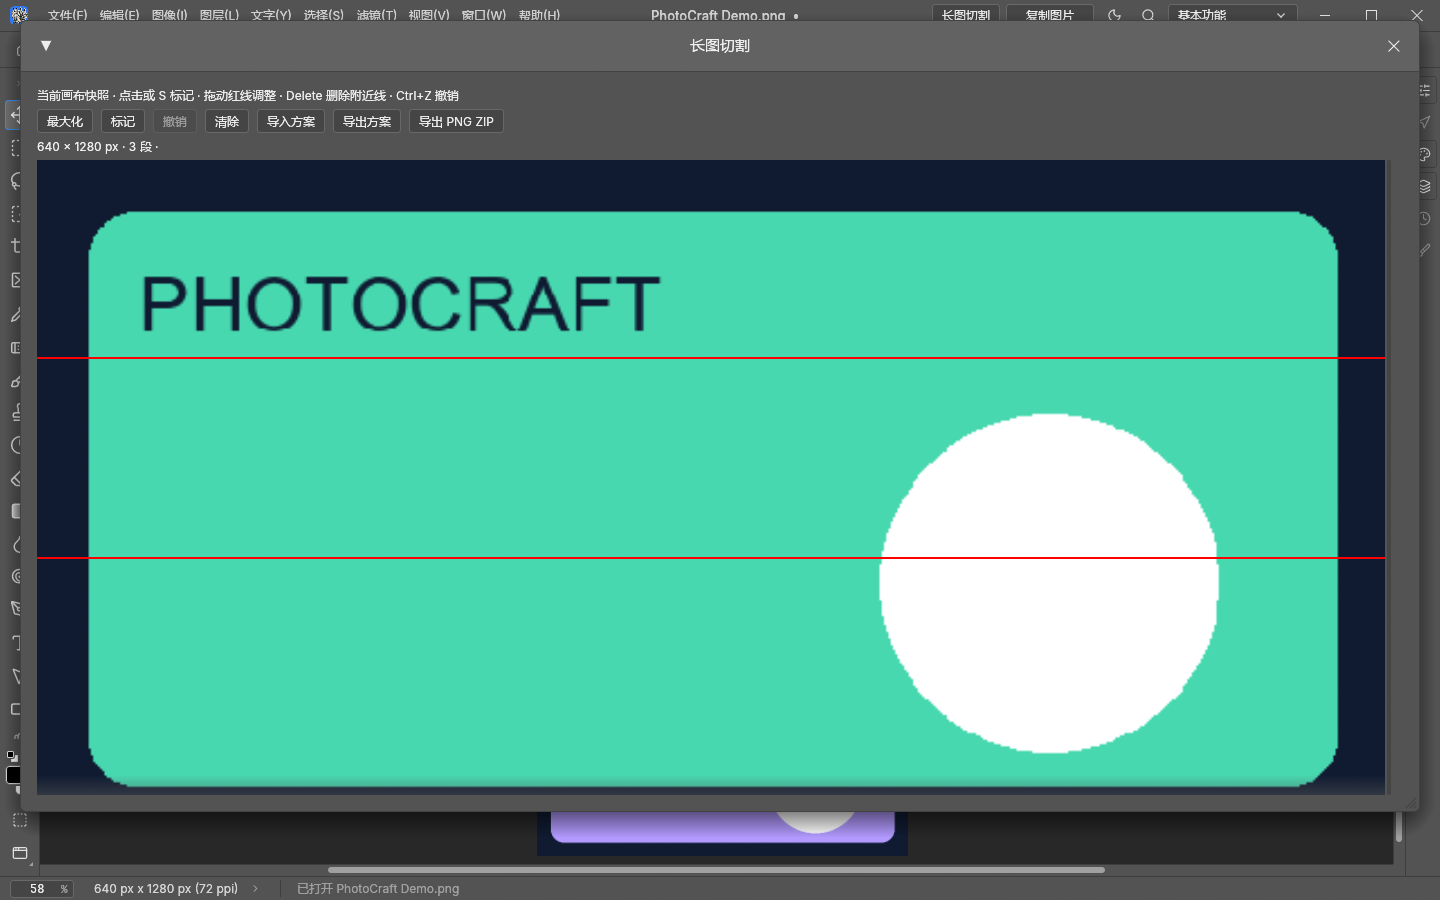
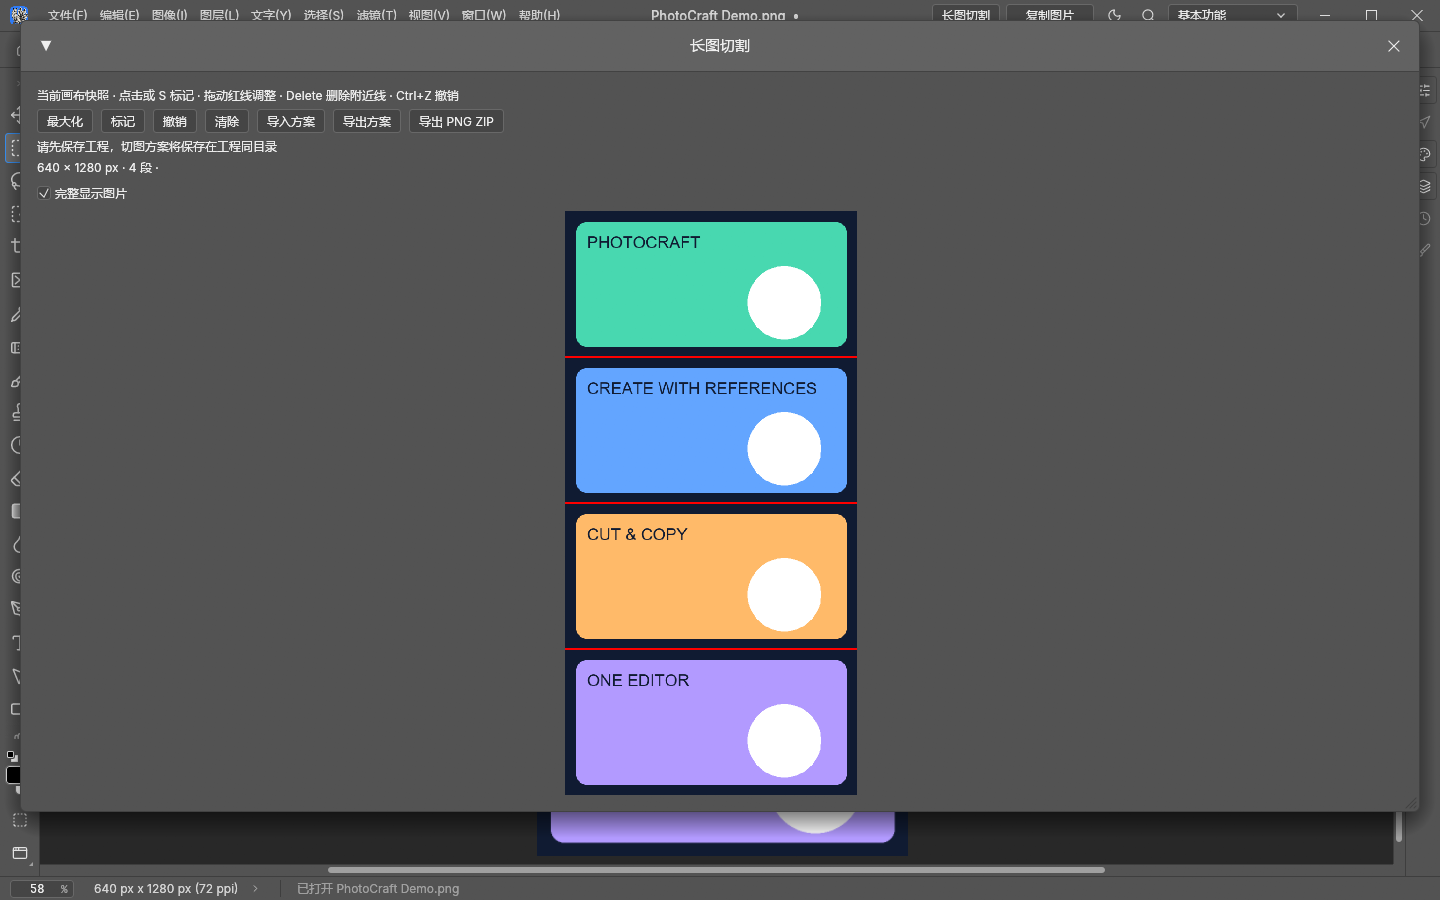
docs: separate language pages and show full long-image cutting

diff --git a/build_portable.py b/build_portable.py
@@ -30,7 +30,7 @@ build_info['executable'] = 'photocraft.exe'
 assert build_info['exe_sha256'] == hashlib.sha256((output / 'native/photocraft.exe').read_bytes()).hexdigest()
 assert build_info['photocraft_version'] == '0.20.1'
 (output / 'native/BUILD_INFO.json').write_text(json.dumps(build_info, indent=2), encoding='utf-8')
-for name in ('portable_launcher.py', 'README.md', 'THIRD_PARTY.md', 'VALIDATION.md', 'RELEASE_NOTES.md'):
+for name in ('portable_launcher.py', 'README.md', 'README.en.md', 'THIRD_PARTY.md', 'VALIDATION.md', 'RELEASE_NOTES.md'):
     shutil.copy2(ROOT / name, output / name)
 command = '@echo off\r\nchcp 65001 >nul\r\ncd /d "%~dp0"\r\n"%~dp0python\\python.exe" "%~dp0portable_launcher.py" %*\r\n'
 (output / 'start.cmd').write_bytes(command.encode('utf-8'))

diff --git a/build_release.py b/build_release.py
@@ -5,7 +5,7 @@ import zipfile
 root = Path(__file__).resolve().parent
 destination = root / 'dist/photocraft-codex-ai-0.4.0.zip'
 destination.parent.mkdir(exist_ok=True)
-files = [root / name for name in ('README.md', 'VALIDATION.md', 'THIRD_PARTY.md', 'RELEASE_NOTES.md',
+files = [root / name for name in ('README.md', 'README.en.md', 'VALIDATION.md', 'THIRD_PARTY.md', 'RELEASE_NOTES.md',
                                  'requirements.txt', 'start.cmd', 'start-native.cmd', 'start-panel.cmd',
                                  'native-build.toml', 'build_native.py', 'export_native_patch.py', 'build_release.py')]
 for folder in ('photocraft_ai', 'vendor', 'tests', 'examples', 'native-source'):

diff --git a/README.en.md b/README.en.md
@@ -1,0 +1,109 @@
+# PhotoCraft · Codex AI
+
+[中文](README.md) · [Illustrated guide](docs/usage-en.md) · [Project data paths](docs/project-data-en.md)
+
+**Native selection AI, references, long-image cutting and canvas clipboard export.**
+
+Screenshots show the unified development build; the published v0.4.0 ZIP predates some features below.
+
+## Screenshots
+
+![Selection AI and references](examples/usage/en/references.png)
+
+![Full-image view in the long-image cutter](examples/usage/en/cutter.png)
+
+![Project history](examples/usage/en/history.png)
+
+## Usage
+
+**Current unified development build:** one PhotoCraft 0.20.1 hosts Codex AI with multi-image references, Userfull Tools' long-image cutter and canvas clipboard export, shared language handling, size adaptation, feathering and timing. Launch with `start.cmd`; local legacy Userfull launchers now point to the same editor. No new package is produced for this merge; the published v0.4.0 ZIP predates the complete merge.
+
+v0.4.0 integrates PhotoCraft 0.20.1 and multi-image references into the original Codex AI plugin. Both source and portable builds use 0.20.1; continue launching with `start.cmd`.
+
+Multi-image references are now integrated into the original Codex AI plugin. Choose several images using the reference button, or drop them onto the AI toolbar; thumbnails are individually removable. Refer to them as “reference 1”, “reference 2”, etc. Continue launching with `start.cmd`; the separate Userfull Tools editor is not required.
+
+v0.3.0 upgrades the matching editor to PhotoCraft 0.19.0 while retaining AI tools, direct image receipt, and editable mask feathering.
+
+v0.3.1 fixes sharp feather boundaries with an inward fade to full transparency, and displays total elapsed time after successful generation. Adjust an existing layer's feather slider to apply the new mode.
+
+Use **Edit selection, Remove object, and Generate image** directly inside PhotoCraft, from a native toolbar next to your selection. The integration uses your locally installed Codex CLI, its built-in image generation tool, and your existing sign-in. Results are imported as new layers with undo support.
+
+### Download and start
+
+1. Download **`photocraft-codex-ai-0.4.0-windows-x64-local-node.zip`** from the [v0.4.0 release](https://github.com/kaliwell/photocraft-codex-ai/releases/tag/v0.4.0).
+2. Extract the entire archive into a writable folder. It includes the matching PhotoCraft editor, Python 3.13.5, and Pillow 11.3.0. **Node.js and Codex CLI are not bundled.**
+3. Use your existing Node.js and npm-installed Codex CLI. If Codex is missing, run `npm.cmd install -g @openai/codex`.
+4. Double-click **`start.cmd`**. Your existing Codex sign-in is reused; otherwise, follow the sign-in prompt for your own account.
+5. Open an image in the newly launched editor, make a rectangular or lasso selection, enter a description, and choose an operation from the selection toolbar.
+
+An internet connection and a Codex installation/account with working built-in image generation are required. GitHub's automatically generated **Source code** archives do not include the editor binary. The Windows x64 package is a preview development build: plugin 0.4.0 with a modified PhotoCraft 0.20.1 editor.
+
+### Usage
+
+| Operation | Behavior |
+| --- | --- |
+| Edit selection | Edit the selected area using your description; default feather: 12 px |
+| Remove object | Remove the selected object and fill the background; no description required; default feather: 12 px |
+| Generate image | Generate content inside the selection; default feather: 0 px |
+
+Results are added as new layers, preserving the original. Press **Ctrl+Z** to undo. The toolbar is hidden when there is no selection; select the whole canvas for a full-image prompt. It follows the selection, zoom, pan, and rotation, moving above the selection near the bottom edge. Progress, cancellation, and errors appear in the toolbar.
+
+**New in v0.2.9: editable mask feathering.** Right-click an AI result layer → **Edge feathering**. Choose the original selection, a centered circle, or a square, then adjust the **0–1000 px** slider or enter a value. The center comes from the layer's original pixel coverage; transparent results use their actual pixel bounds. New results have separate masks that can be adjusted without generating another image, support undo/redo, and persist in `.pcraft` files. Soft edges already baked into pixels by older versions cannot be reversed.
+
+[Context menu example](examples/editable-mask-menu.png) · [Editable mask document](examples/editable-mask-demo.pcraft) · [Layered demo](examples/codex-ai-native-demo.pcraft)
+
+### Proxy and local files
+
+To use an explicit HTTP/mixed proxy, create `runtime/codex-proxy.json` inside the installation folder:
+
+```json
+{"url":"http://127.0.0.1:10808"}
+```
+
+`10808` is an example: replace it with your own proxy port and keep your proxy running. This setting applies only to Codex child processes launched by the plugin. It does not change system settings or global Codex configuration; local editor traffic bypasses the proxy. Delete the file to resume inheriting the existing network environment.
+
+- Launch with `start.cmd` so both the editor and worker start. Do not launch only `native/photocraft.exe`.
+- Editor settings are stored in `runtime/native-profile/`. Task images, prompts, results, and logs are stored in `runtime/native-jobs/`.
+- Other PhotoCraft installations remain separate. Save your documents and close the old version before extracting an update. Update the matching editor through the plugin package to avoid replacing it with the upstream editor.
+
+### Data handling and limitations
+
+- Selection edits send **the full flattened source image and a reference image marking the selection** to Codex image generation. The selection limits local result compositing, not what is uploaded.
+- The plugin uses the existing CLI sign-in without extracting login credentials and does not automatically fall back to a paid API. Cancellation stops the child process; a server-side job already in progress may still consume quota.
+- The worker accepts token-authenticated localhost requests and rejects browser Origin requests. Codex runs with the `workspace-write` sandbox, `image_generation` enabled, and multi-agent mode disabled.
+- Automatic import is refused if the document has changed or closed. A mismatched aspect ratio also prevents import while preserving the output; a different resolution with the same aspect ratio is scaled proportionally.
+- Exported images and generated layers use 8-bit PNG. Professional fidelity for high-bit-depth documents and special color spaces has not been verified.
+- Image generation availability depends on the Codex installation, account, model, and sandbox. Enabling the feature does not guarantee service access; failures are displayed and logs are retained.
+
+### Source, fallback panel, and validation
+
+See [native-source/README.md](native-source/README.md) for the Rust/egui patch and rebuild instructions. The bridge derives from OpenFill (Apache-2.0); component and license details are in [THIRD_PARTY.md](THIRD_PARTY.md).
+
+The fallback Tk panel is mainly for source installations. It requires Python 3.10+ with Tk, Pillow, a desktop PhotoCraft installation, and a signed-in Codex CLI. Its source launcher is `start-panel.cmd`:
+
+```powershell
+pip install -r requirements.txt
+python -m photocraft_ai --photocraft "D:/PhotoCraft/photocraft.exe"
+```
+
+The panel supports text-to-image, selection editing, and object removal, with a preview before applying results. Tasks are stored in `runtime/jobs/`. For the native Windows release, use `start.cmd`.
+
+```powershell
+python -m unittest discover -s tests -v
+python -m photocraft_ai --connect-only
+python tests/smoke_photocraft.py
+```
+
+See [VALIDATION.md](VALIDATION.md) for recorded results and known testing boundaries. These source-install commands require their dependencies and the matching editor; integration tests create test documents. Live image generation requires service access and consumes quota.
+
+### Version history
+
+| Version | Main change |
+| --- | --- |
+| [0.3.0](https://github.com/kaliwell/photocraft-codex-ai/releases/tag/v0.3.0) | Upgrade the matching editor to PhotoCraft 0.19.0, retaining all AI integration features |
+| [0.2.9](https://github.com/kaliwell/photocraft-codex-ai/releases/tag/v0.2.9) | Editable layer masks; original selection/circle/square; 0–1000 px feathering |
+| [0.2.8](https://github.com/kaliwell/photocraft-codex-ai/releases/tag/v0.2.8) | Receive complete PNGs directly from the current session; fix failed Windows copy commands preventing import |
+| [0.2.7](https://github.com/kaliwell/photocraft-codex-ai/releases/tag/v0.2.7) | Use local Node.js and npm-installed Codex instead of bundling them |
+| [0.2.6](https://github.com/kaliwell/photocraft-codex-ai/releases/tag/v0.2.6) | Legacy portable bundle including Python, Pillow, PhotoCraft, and Codex CLI |
+| [0.2.5](https://github.com/kaliwell/photocraft-codex-ai/releases/tag/v0.2.5) | Remove extra feathering for image generation; preserve the original selection mask |
+| 0.2.4–0.2.1 | Per-plugin proxy, HTTPS error classification and timeout, local edit feathering, single-generation and latency improvements |

diff --git a/docs/project-data.md b/docs/project-data.md
@@ -1,4 +1,4 @@
-# 工程数据路径 / Project data paths
+# 工程数据路径
 
 已保存的工程使用同目录的专属文件夹。保留工程完整文件名和扩展名，再追加 `.photocraft-data`，避免同名 PSD、PNG、PCraft 混用记录。
 
@@ -23,16 +23,3 @@
 - 另存为：新路径使用新数据目录，旧历史仍属于旧工程，不自动复制。若切图窗口保持打开，当前切割线会随另存为写入新工程目录。
 - 移动整个工程：将工程文件与旁边的数据文件夹一起复制。手动改工程文件名时，也将数据文件夹改为相同的新完整文件名加 `.photocraft-data`。
 - 旧版 `runtime/native-history/` 和配置目录 `long-cut/` 保留原处，不自动混入工程目录，避免把来源不明的记录归给错误工程。
-
-## English
-
-Saved projects use `<full-project-filename>.photocraft-data/` beside the project file. Keeping the extension separates similarly named PSD, PNG and PCraft projects.
-
-- `history/<id>/snapshot.json` and `references/` hold prompt/reference snapshots. Retention is **per project**: 50 entries / 512 MiB. Restore is read-only and identical snapshots are reused.
-- `cutting/plan.json` automatically persists cut lines. Identical canvases in different projects remain isolated; incompatible canvas sizes do not reuse a plan.
-- **Export plan** writes `cutting/longpiccutter.json`. PNG ZIP export still asks for its destination.
-- Save an untitled project before storing history. Unsaved cutting plans remain in the current window; manual JSON export is available.
-- Switching documents changes history scope and discards stale asynchronous history responses. Reopen the cutter to load that project's plan.
-- Save As starts a new history scope, retaining the old project's history. An open cutter carries its current lines into the new project's data directory.
-- Move the project file and its adjacent data directory together. When renaming the project manually, rename its data directory to match.
-- Legacy global history and cutter caches remain untouched; they are not automatically assigned to a project.

diff --git a/docs/usage-en.md b/docs/usage-en.md
@@ -1,6 +1,6 @@
 # Unified build: illustrated guide
 
-[中文指南](usage-zh.md) · [Back to README](../README.md)
+[中文指南](usage-zh.md) · [Back to README](../README.en.md)
 
 These screenshots show the unified development build on PhotoCraft 0.20.1 (merge commit `d421251`). The published v0.4.0 ZIP predates the cutter, canvas clipboard export and shared language support in this merge. The full feature set below does not describe that older package.
 
@@ -22,7 +22,7 @@ This screenshot demonstrates inputs and attachments. No remote generation was ru
 
 1. Click **Long image cutter** in the title bar to capture the current complete canvas.
 2. Click the image or press `S` to add a cut. Drag red lines to adjust them; `Delete` removes the selected line and `Ctrl+Z` undoes a change.
-3. Maximize the window or scroll through the source. Choose **Export PNG ZIP** to save the slices.
+3. **Fit full image** is enabled by default to show the complete long image at its original aspect ratio. Uncheck it to enlarge details. Maximize the window or scroll through the source. Choose **Export PNG ZIP** to save the slices.
 4. Import/export JSON plans to reuse cuts or exchange data with LongPicCutter.
 
 ## 3. Copy the full canvas
@@ -45,4 +45,4 @@ The geometric demo artwork was made for this project. Screenshots contain no use
 - Records persist under `<full-project-filename>.photocraft-data/history/` across restarts. Per project, up to 50 entries and 512 MiB are retained, with oldest entries removed when over budget. Older job directories are not imported automatically.
 - Prompts and reference snapshots remain local. References are sent only when you submit a new generation request.
 
-[Project data path rules](project-data.md)
+[Project data path rules](project-data-en.md)

diff --git a/docs/project-data-en.md b/docs/project-data-en.md
@@ -1,0 +1,12 @@
+# Project data paths
+
+Saved projects use `<full-project-filename>.photocraft-data/` beside the project file. Keeping the extension separates similarly named PSD, PNG and PCraft projects.
+
+- `history/<id>/snapshot.json` and `references/` hold prompt/reference snapshots. Retention is **per project**: 50 entries / 512 MiB. Restore is read-only and identical snapshots are reused.
+- `cutting/plan.json` automatically persists cut lines. Identical canvases in different projects remain isolated; incompatible canvas sizes do not reuse a plan.
+- **Export plan** writes `cutting/longpiccutter.json`. PNG ZIP export still asks for its destination.
+- Save an untitled project before storing history. Unsaved cutting plans remain in the current window; manual JSON export is available.
+- Switching documents changes history scope and discards stale asynchronous history responses. Reopen the cutter to load that project's plan.
+- Save As starts a new history scope, retaining the old project's history. An open cutter carries its current lines into the new project's data directory.
+- Move the project file and its adjacent data directory together. When renaming the project manually, rename its data directory to match.
+- Legacy global history and cutter caches remain untouched; they are not automatically assigned to a project.

diff --git a/VALIDATION.md b/VALIDATION.md
@@ -1,5 +1,11 @@
 # 本机验证记录
 
+## 完整长图与分语言页面（2026-11-05）
+
+- 切图默认按可用宽高等比完整显示并居中，保留可关闭的 Fit full image 选项，放大细节时仍可按宽度滚动查看。
+- 中文首页 README.md 与英文 README.en.md 独立，使用图、说明和工程路径页分别链接各自语言；不再在一个首页折叠混排两套图片。
+- 中英文真实界面截图显示完整 640×1280 长图、三条切割线和四段；自动检查图像边界在截图可视区域内。示例为本项目制作的几何图案。
+
 ## 工程隔离保存（2026-11-04）
 
 - 历史按编辑器实际保存路径选择 `<完整文件名>.photocraft-data/history/`，HTTP 请求不能指定任意历史目录；校验当前工程上下文，切换/另存为时清理列表并丢弃过期异步结果。

diff --git a/docs/usage-zh.md b/docs/usage-zh.md
@@ -22,7 +22,7 @@
 
 1. 点击编辑器顶部“长图切割”，读取当前完整画布快照。
 2. 单击图片或按 `S` 添加切割线，拖动红线调整；`Delete` 删除所选线，`Ctrl+Z` 撤销。
-3. 可最大化窗口、滚动查看长图；使用“导出 PNG ZIP”保存切片。
+3. 默认勾选“完整显示图片”，等比显示整张长图；取消勾选可放大查看细节。可最大化窗口、滚动查看长图；使用“导出 PNG ZIP”保存切片。
 4. “导入方案 / 导出方案”用于保存与交换 JSON 切割方案，支持 LongPicCutter 数据互通。
 
 ## 3. 直接复制完整画布
